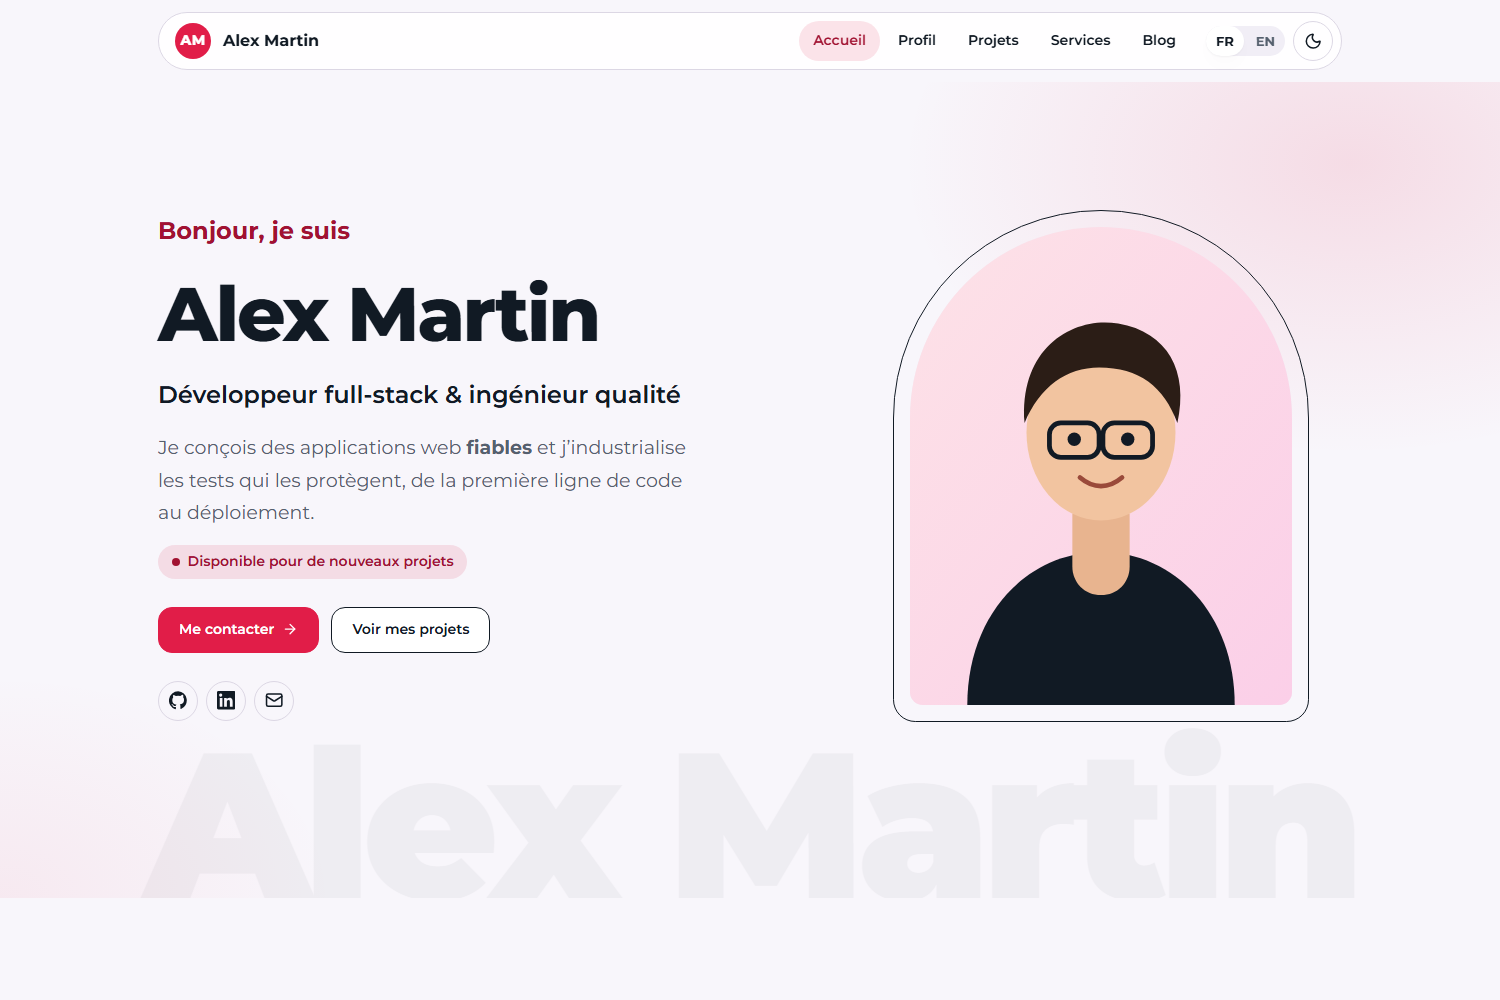
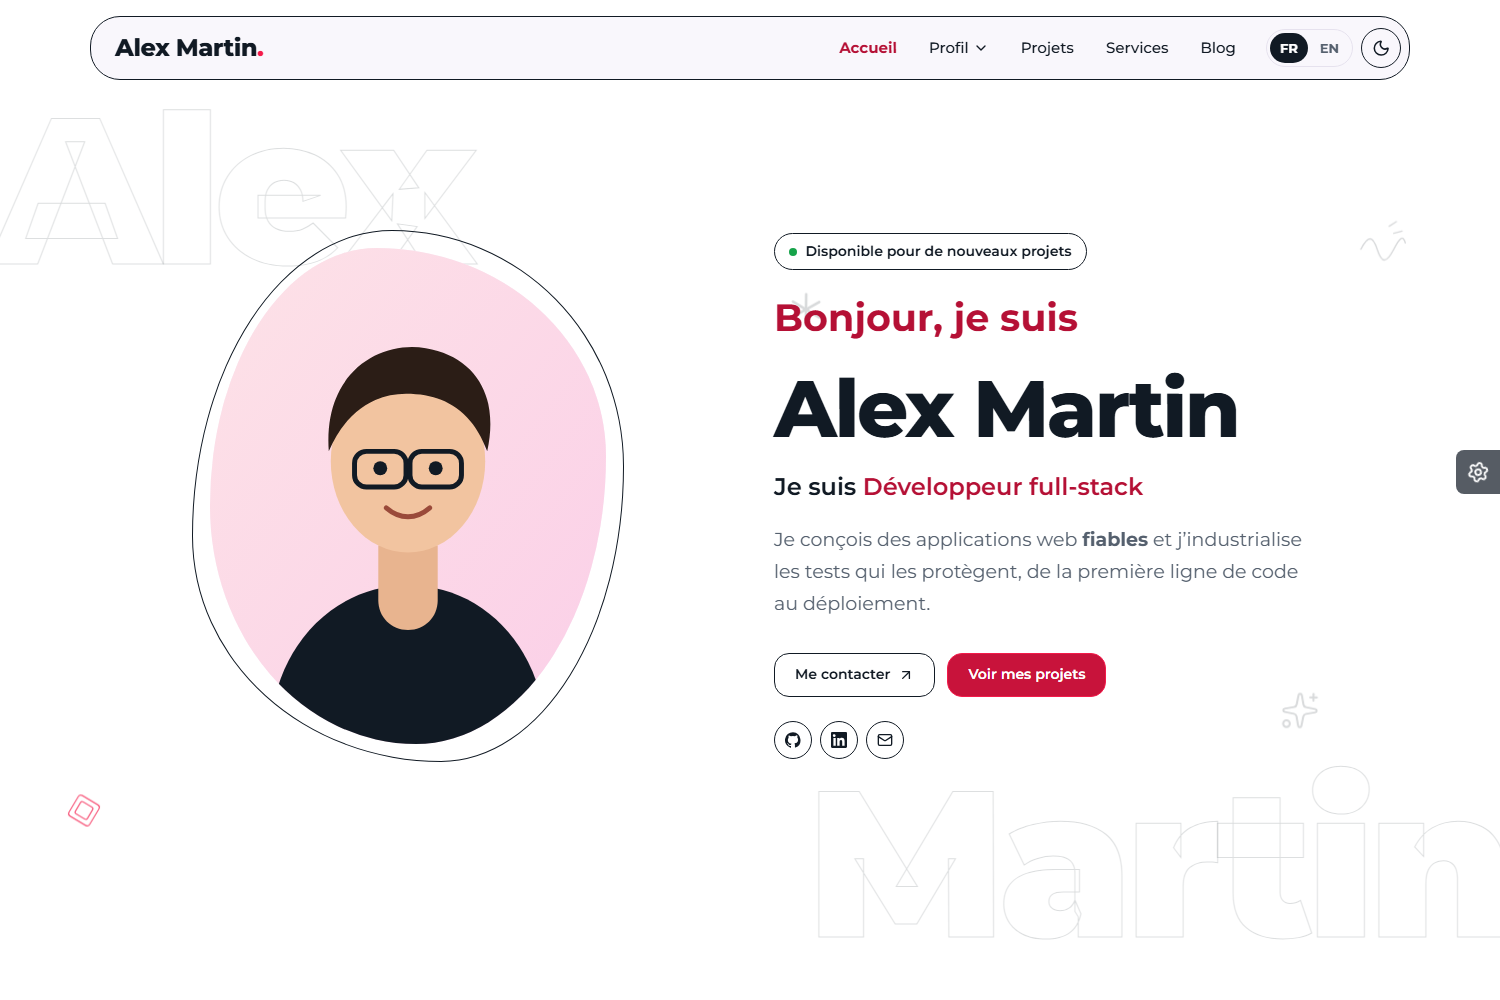
docs: guides, journal et captures à jour

diff --git a/docs/CONFIGURATION.md b/docs/CONFIGURATION.md
@@ -16,21 +16,25 @@ La fonction `func/l.html` choisit la langue courante, puis la langue par défaut
 
 | Clé | Rôle | Défaut |
 |---|---|---|
-| `params.accent` | Couleur d'accent : `rose`, `blue`, `emerald`, `violet`, `amber`, `slate` | `rose` |
+| `params.accent` | Couleur d'accent : `rose`, `violet`, `indigo`, `orange`, `cyan`, `blue`, `red`, `pink`, `slate`, `green` | `rose` |
+| `params.tools` | Panneau de personnalisation pour les visiteurs (couleur, sens LTR/RTL, thème) | `true` |
 | `params.colorScheme` | Thème initial : `system`, `light`, `dark` | `system` |
 | `params.description` | Description par défaut (SEO) | |
 | `params.ogImage` | Image de partage par défaut | |
-| `params.logo` | Logo de l'en-tête, sinon initiales de l'auteur | |
+| `params.logo` | Logo de l'en-tête, sinon le titre du site suivi d'un point d'accent | |
 | `params.favicon` | Favicon, sinon celui du thème | |
 | `params.dateFormat` | Format des dates d'articles | `:date_long` |
 | `params.author.name` | Nom affiché partout | |
 | `params.author.email` | Bouton e-mail et lien de contact | |
 | `params.author.jobTitle` | Intitulé de poste | |
+| `params.author.phone`, `.website`, `.location` | Coordonnées de la page CV | |
+| `params.author.avatar` | Photo de la page CV | |
+| `params.author.signature` | Image de signature (À propos) | |
 | `params.resume.pdf` | PDF du CV (chemin ou URL, par langue possible) | |
 | `params.contact.formAction` | URL d'un service de formulaire (Formspree...) | |
-| `params.contact.title`, `.text` | Textes de la section contact | textes i18n |
+| `params.contact.title`, `.subtitle`, `.text` | Textes du bandeau de contact | textes i18n |
 | `params.home.sections` | Sections de l'accueil, dans l'ordre | toutes |
-| `params.home.projects`, `.posts`, `.services` | Nombre d'éléments affichés à l'accueil | 3, 3, 4 |
+| `params.home.projects`, `.posts`, `.services` | Nombre d'éléments affichés à l'accueil | 6, 2, 4 |
 | `params.blog.showReadingTime` | Temps de lecture | `true` |
 | `params.blog.showToc` | Sommaire des articles (désactivable par `toc: false`) | `true` |
 
@@ -38,16 +42,16 @@ La fonction `func/l.html` choisit la langue courante, puis la langue par défaut
 
 | Nom | Source |
 |---|---|
-| `hero` | Front matter `hero` de `content/<langue>/_index.md` |
-| `stats` | `data/stats.yaml` |
-| `about` | Front matter `about` de l'accueil |
-| `skills` | `data/skills.yaml` |
-| `services` | Pages de `content/<langue>/services/` |
-| `projects` | Pages de `content/<langue>/projects/`, `featured: true` en premier |
-| `experience` | `data/experience.yaml` (3 premières entrées) |
-| `testimonials` | `data/testimonials.yaml` |
+| `hero` | Front matter `hero` de l'accueil : portrait en forme organique, prénom et nom en filigrane |
+| `about` | Front matter `about` : citation en contour, photo ovale avec badge rotatif, 3 premières pastilles de `data/skills.yaml` |
+| `achievements` | Onglets Formation / Expérience et frise alternée (`data/education.yaml`, `data/experience.yaml`) |
+| `services` | Pages de `content/<langue>/services/`, cartes pastel |
+| `projects` | Pages de `content/<langue>/projects/` filtrables, `featured: true` en premier |
+| `contact` | Bandeau sombre avec badge rotatif (`params.contact`, `params.author.email`) |
+| `testimonials` | `data/testimonials.yaml`, une recommandation à la fois |
 | `posts` | Derniers articles de `content/<langue>/blog/` |
-| `contact` | `params.contact` et `params.author.email` |
+| `stats` | `data/stats.yaml` (non affichée par défaut) |
+| `skills` | Toutes les pastilles de `data/skills.yaml` (non affichée par défaut) |
 
 ## Langues
 

diff --git a/README.md b/README.md
@@ -21,12 +21,14 @@
 |---|---|
 | **Sections à la carte** | L'accueil est une liste de sections déclarée dans la configuration : réordonnez, retirez ou ajoutez les vôtres. |
 | **Multilingue natif** | Interface traduite (FR, EN), contenu par langue, sélecteur qui conserve la page, balises `hreflang`. |
-| **Clair / sombre** | Préférence système ou choix mémorisé, sans flash au chargement, 6 couleurs d'accent. |
+| **Identité forte** | Cartes à contour dont l'image déborde, pastilles pastel à jauge circulaire, frise alternée à onglets, badges au texte tournant, lettres détourées, formes décoratives animées. |
+| **Personnalisable par le visiteur** | Panneau d'outils : 10 couleurs d'accent, sens LTR / RTL, clair / sombre, mémorisés et appliqués sans flash. |
 | **Projets filtrables** | Filtres par catégorie accessibles, fiches projet avec client, rôle, période, technologies et résultats. |
 | **Blog complet** | Pagination, temps de lecture, sommaire, étiquettes, articles liés, flux RSS. |
-| **CV** | Frise d'expériences et de formations, compétences, téléchargement du PDF par langue. |
+| **CV** | Page en deux colonnes (photo, coordonnées, formation, compétences / expériences, projets) et PDF par langue. |
+| **Moderne** | Typographie fluide, transitions de vue entre pages, `:has()`, propriétés logiques, mouvement réduit respecté. |
 | **SEO** | Open Graph, URL canonique, JSON-LD (`Person`, `WebSite`, `BlogPosting`, `CreativeWork`), sitemap. |
-| **Accessibilité** | Audit axe-core WCAG 2.1 AA sans violation en clair et en sombre, navigation clavier, mouvement réduit respecté. |
+| **Accessibilité** | Audit axe-core WCAG 2.1 AA sans violation en clair et en sombre, contraste vérifié pour les 10 couleurs, onglets et menus au clavier. |
 | **Léger** | Aucun jQuery ni CDN : CSS concaténé et empreint, JS en modules ES compilé par Hugo, police woff2 auto-hébergée. |
 
 ## Démarrage rapide
@@ -94,10 +96,11 @@ exampleSite/      site de démonstration bilingue
 
 ```toml
 [params]
-  accent = "blue"            # rose, blue, emerald, violet, amber, slate
+  accent = "blue"            # rose, violet, indigo, orange, cyan, blue, red, pink, slate, green
+  tools = false              # masque le panneau de personnalisation
   colorScheme = "system"     # system, light, dark
   [params.home]
-    sections = ["hero", "projects", "experience", "contact"]
+    sections = ["hero", "about", "achievements", "projects", "contact"]
 ```
 
 - **Styles** : créez `assets/css/custom.css` dans votre site, il est chargé en dernier.

diff --git a/docs/CONTENU.md b/docs/CONTENU.md
@@ -20,6 +20,7 @@ hero:
   status: Disponible pour de nouveaux projets   # badge facultatif
   image: images/avatar.jpg
 about:
+  quote: La créativité naît de la rigueur.   # citation en lettres détourées
   title: Construire vite, livrer sereinement
   image: images/about.jpg
   text: |
@@ -72,8 +73,8 @@ features:
 
 ## Pages À propos et CV
 
-- `content/<langue>/about.md` avec `type: about`, `image` et `sections: [stats, skills, testimonials]` pour réutiliser des sections de l'accueil sous le texte.
-- `content/<langue>/resume.md` avec `type: resume` : frises issues de `data/experience.yaml` et `data/education.yaml`, compétences et bouton PDF.
+- `content/<langue>/about.md` avec `type: about`, `image`, `heading`, `quote` et `sections: [skills, testimonials]` pour réutiliser des sections de l'accueil sous le texte.
+- `content/<langue>/resume.md` avec `type: resume` : colonne latérale (photo, coordonnées, formation, compétences) et cartes expérience et projets ; le contenu de la page devient le bloc « À propos ».
 
 ## Fichiers de données (`data/`)
 
@@ -81,10 +82,10 @@ features:
 |---|---|
 | `socials.yaml` | `name`, `url`, `icon` |
 | `stats.yaml` | `value`, `label`, `icon` |
-| `skills.yaml` | `title`, `icon`, `items` (`name`, `level` de 0 à 100 facultatif) |
+| `skills.yaml` | `title`, `icon`, `level` (0 à 100, jauge circulaire), `summary`, `items` (`name`) |
 | `experience.yaml` | `role`, `company`, `location`, `start`, `end`, `summary`, `highlights`, `techs`, `url` |
 | `education.yaml` | `title`, `school`, `start`, `end`, `description`, `url` |
-| `testimonials.yaml` | `name`, `role`, `quote`, `avatar` |
+| `testimonials.yaml` | `name`, `role`, `quote`, `avatar` (photo et vignettes flottantes) |
 
 Les textes traduisibles s'écrivent `{ fr: "...", en: "..." }`, les listes `highlights: { fr: [...], en: [...] }`. En YAML, entourez de guillemets toute valeur contenant une virgule dans un dictionnaire en ligne.
 

diff --git a/docs/DEVELOPPEMENT.md b/docs/DEVELOPPEMENT.md
@@ -37,6 +37,8 @@ Les propriétés logiques (`margin-inline`, `inset-inline-start`...) rendent la 
 
 ## JavaScript
 
+Les préférences des visiteurs (thème, couleur, sens d'écriture) passent par `modules/preferences.js` et sont appliquées avant le premier rendu par `head/theme-init.html`.
+
 [`assets/js/main.js`](../assets/js/main.js) importe les modules de `assets/js/modules/` et les initialise séparément : un module en échec n'empêche pas les autres de démarrer. Chaque module cible des attributs `data-*` (`data-theme-toggle`, `data-filter`, `data-carousel`...) plutôt que des classes de style.
 
 Pour ajouter un comportement : créez `modules/mon-module.js` exportant `initMonModule`, puis ajoutez-le à la liste de `main.js`.
@@ -55,9 +57,10 @@ Un nom inconnu produit un avertissement au build au lieu d'une page cassée.
 | `func/l.html` | `{{ partial "func/l.html" .title }}` : valeur traduite |
 | `func/date.html` | `"2024-03"` vers « Mars 2024 », `present` vers « Aujourd'hui » |
 | `func/period.html` | `(dict "start" "2022" "end" "present")` |
+| `func/period-short.html` | Période compacte des pastilles de frise : « 2020-23 » |
 | `func/image-url.html` | URL d'une image (bundle, assets ou static), relative ou absolue |
 
-Les partiels `ui/` produisent du HTML : `ui/icon.html`, `ui/image.html`, `ui/timeline.html`, `ui/section-header.html`, `ui/pagination.html`...
+Les partiels `ui/` produisent du HTML : `ui/section-header.html` (dernier mot en couleur), `ui/rotating-badge.html`, `ui/ring.html` (jauge), `ui/skill-pills.html`, `ui/alt-timeline.html`, `ui/project-grid.html`, `ui/doodle.html` (formes décoratives), `ui/image.html`...
 
 ## Vérifications
 

diff --git a/CHANGELOG.md b/CHANGELOG.md
@@ -1,5 +1,17 @@
 # Journal des versions
 
+## 2.1.0 (2026-10-25)
+
+### Ajouté
+- Identité visuelle inspirée du gabarit d'origine, réécrite : cartes à image débordante, pastilles pastel à jauge circulaire, frise alternée à onglets (section `achievements`), badges rotatifs, bandeau de contact sombre, témoignages un par un, formes décoratives.
+- Panneau de personnalisation (`params.tools`) : 10 couleurs, sens LTR / RTL, clair / sombre.
+- Page CV en deux colonnes, page À propos avec citation et signature, bandeau sombre des pages internes.
+- Bouton de retour en haut avec progression de lecture, transitions de vue entre pages.
+
+### Corrigé
+- Frise et listes à puces sans retrait : la remise à zéro des listes passe en `:where()`.
+- Débordement horizontal du carrousel sur mobile.
+
 ## 2.0.0 (2026-10-25)
 
 Refonte complète du thème.
